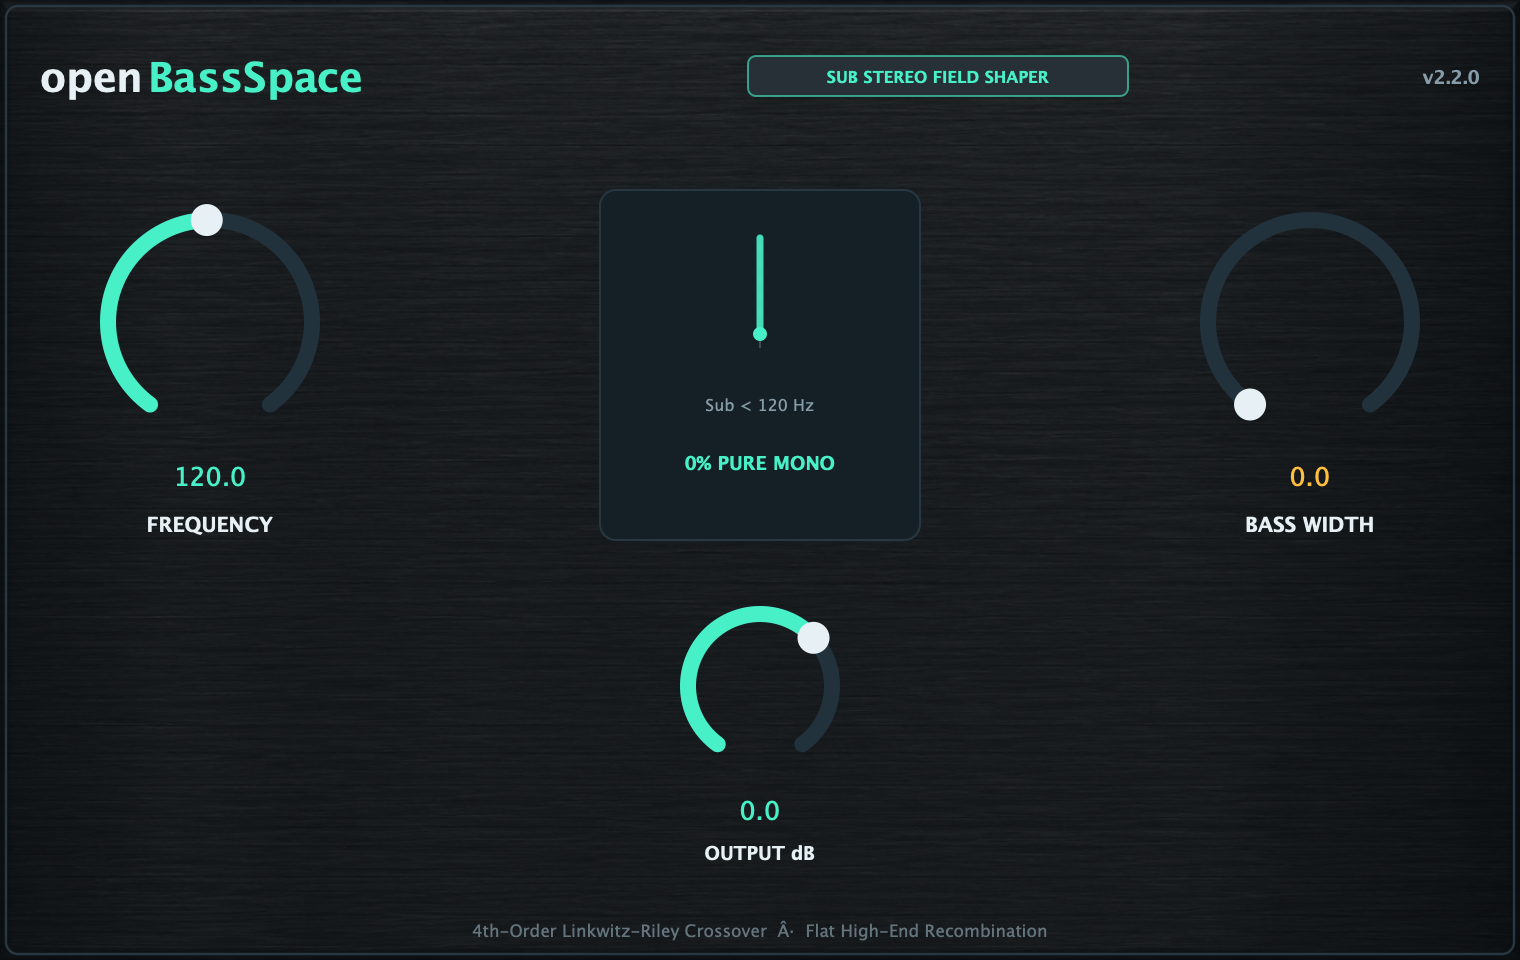
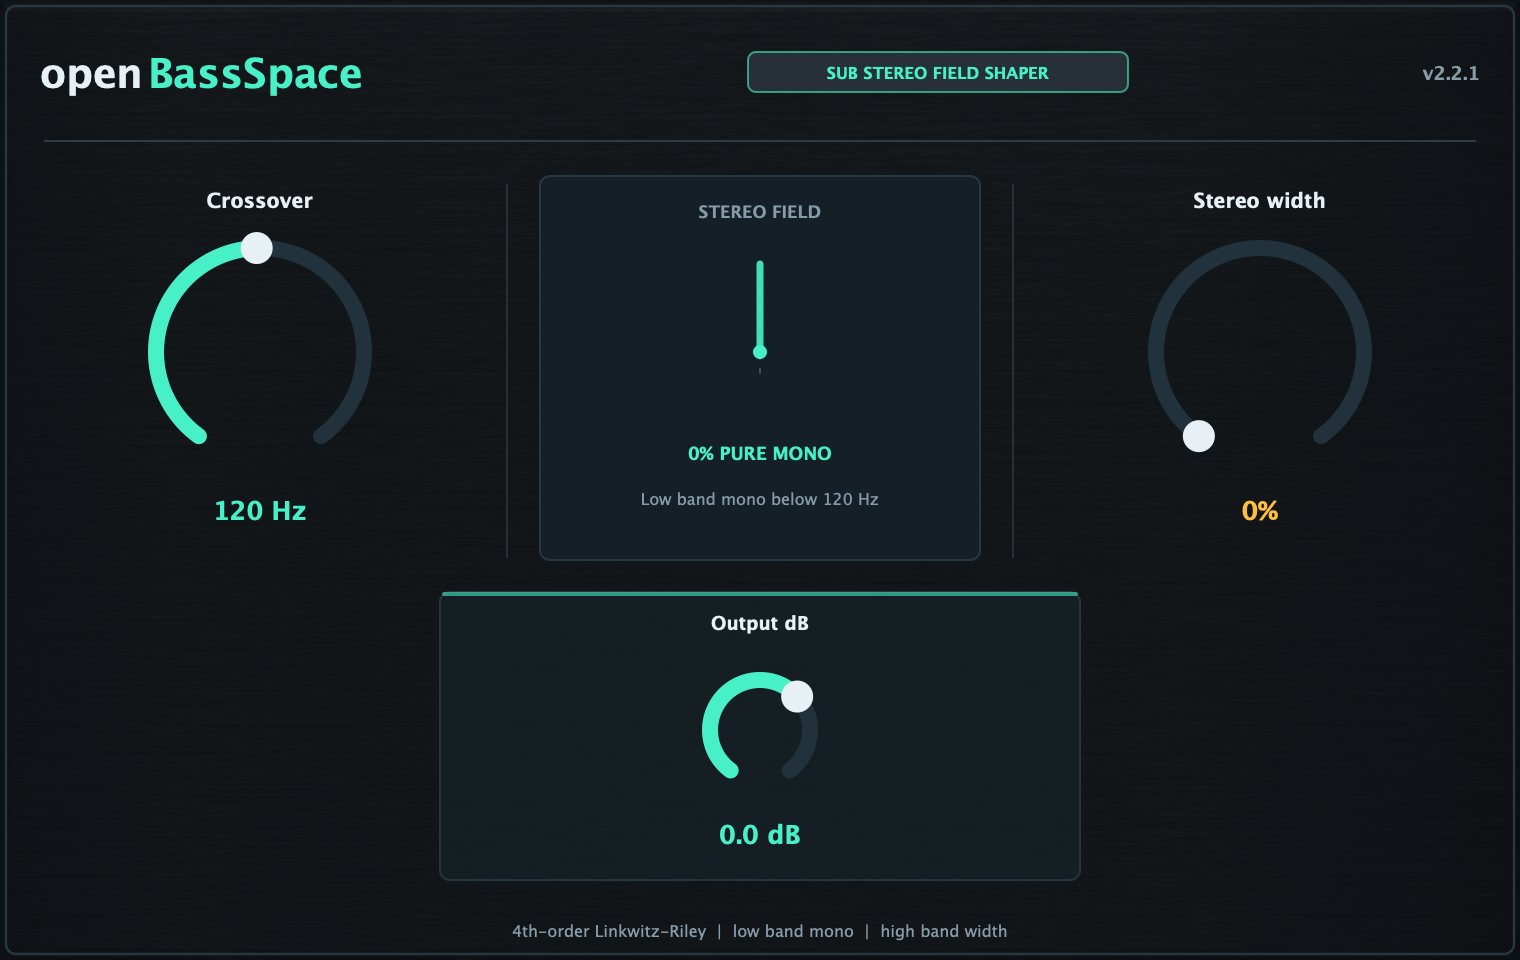
feat: polish openBassSpace interface

diff --git a/Source/Plugin/PluginEditor.cpp b/Source/Plugin/PluginEditor.cpp
@@ -13,6 +13,7 @@ const juce::Colour kAccentMint{ 0xff48f0c8 };
 const juce::Colour kAccentGold{ 0xffffbe3b };
 const juce::Colour kTextWhite{ 0xffe6f0f5 };
 const juce::Colour kTextDim{ 0xff869ca8 };
+const juce::Colour kPanelRule{ 0xff31434d };
 
 void drawGlow(juce::Graphics& g, juce::Rectangle<float> bounds, juce::Colour colour) {
     const juce::Graphics::ScopedSaveState saved(g);
@@ -35,39 +36,49 @@ BassSpaceEditor::BassSpaceEditor(BassSpaceProcessor& p)
 
     // Frequency knob
     freqSlider_.setSliderStyle(juce::Slider::RotaryHorizontalVerticalDrag);
-    freqSlider_.setTextBoxStyle(juce::Slider::TextBoxBelow, false, 80, 22);
+    freqSlider_.setTextBoxStyle(juce::Slider::NoTextBox, false, 0, 0);
     freqSlider_.setColour(juce::Slider::rotarySliderFillColourId, kAccentMint);
     freqSlider_.setColour(juce::Slider::rotarySliderOutlineColourId, juce::Colour(0xff22323c));
     freqSlider_.setColour(juce::Slider::thumbColourId, kTextWhite);
-    freqSlider_.setColour(juce::Slider::textBoxTextColourId, kAccentMint);
-    freqSlider_.setColour(juce::Slider::textBoxOutlineColourId, juce::Colours::transparentBlack);
     freqSlider_.setDoubleClickReturnValue(true, 120.0);
-    freqSlider_.textFromValueFunction = [](double v) { return juce::String(juce::roundToInt(v)) + " Hz"; };
+    freqSlider_.setTitle("Crossover frequency");
+    freqSlider_.setDescription("The low band stays mono below this frequency.");
+    freqSlider_.setTooltip("Set the crossover frequency. The low band stays mono below this point.");
     addAndMakeVisible(freqSlider_);
 
-    freqLabel_.setText("FREQUENCY", juce::dontSendNotification);
+    freqLabel_.setText("Crossover", juce::dontSendNotification);
     freqLabel_.setJustificationType(juce::Justification::centred);
     freqLabel_.setFont(juce::FontOptions(12.0f, juce::Font::bold));
     freqLabel_.setColour(juce::Label::textColourId, kTextWhite);
     addAndMakeVisible(freqLabel_);
 
+    freqValueLabel_.setJustificationType(juce::Justification::centred);
+    freqValueLabel_.setFont(juce::FontOptions(15.0f, juce::Font::bold));
+    freqValueLabel_.setColour(juce::Label::textColourId, kAccentMint);
+    addAndMakeVisible(freqValueLabel_);
+
     // Width knob
     widthSlider_.setSliderStyle(juce::Slider::RotaryHorizontalVerticalDrag);
-    widthSlider_.setTextBoxStyle(juce::Slider::TextBoxBelow, false, 80, 22);
+    widthSlider_.setTextBoxStyle(juce::Slider::NoTextBox, false, 0, 0);
     widthSlider_.setColour(juce::Slider::rotarySliderFillColourId, kAccentGold);
     widthSlider_.setColour(juce::Slider::rotarySliderOutlineColourId, juce::Colour(0xff22323c));
     widthSlider_.setColour(juce::Slider::thumbColourId, kTextWhite);
-    widthSlider_.setColour(juce::Slider::textBoxTextColourId, kAccentGold);
-    widthSlider_.setColour(juce::Slider::textBoxOutlineColourId, juce::Colours::transparentBlack);
     widthSlider_.setDoubleClickReturnValue(true, 100.0);
-    widthSlider_.textFromValueFunction = [](double v) { return juce::String(juce::roundToInt(v)) + " %"; };
+    widthSlider_.setTitle("Stereo width");
+    widthSlider_.setDescription("Sets the stereo width above the crossover frequency.");
+    widthSlider_.setTooltip("Set the stereo width above the crossover frequency.");
     addAndMakeVisible(widthSlider_);
 
-    widthLabel_.setText("BASS WIDTH", juce::dontSendNotification);
+    widthLabel_.setText("Stereo width", juce::dontSendNotification);
     widthLabel_.setJustificationType(juce::Justification::centred);
     widthLabel_.setFont(juce::FontOptions(12.0f, juce::Font::bold));
     widthLabel_.setColour(juce::Label::textColourId, kTextWhite);
     addAndMakeVisible(widthLabel_);
+
+    widthValueLabel_.setJustificationType(juce::Justification::centred);
+    widthValueLabel_.setFont(juce::FontOptions(15.0f, juce::Font::bold));
+    widthValueLabel_.setColour(juce::Label::textColourId, kAccentGold);
+    addAndMakeVisible(widthValueLabel_);
 
     freqAttachment_ = std::make_unique<juce::AudioProcessorValueTreeState::SliderAttachment>(
         processor_.parameters, bass_space::params::kFrequency, freqSlider_);
@@ -75,26 +86,32 @@ BassSpaceEditor::BassSpaceEditor(BassSpaceProcessor& p)
         processor_.parameters, bass_space::params::kWidth, widthSlider_);
 
     outputDbSlider_.setSliderStyle(juce::Slider::RotaryHorizontalVerticalDrag);
-    outputDbSlider_.setTextBoxStyle(juce::Slider::TextBoxBelow, false, 80, 22);
+    outputDbSlider_.setTextBoxStyle(juce::Slider::NoTextBox, false, 0, 0);
     outputDbSlider_.setColour(juce::Slider::rotarySliderFillColourId, kAccentMint);
     outputDbSlider_.setColour(juce::Slider::rotarySliderOutlineColourId, juce::Colour(0xff22323c));
     outputDbSlider_.setColour(juce::Slider::thumbColourId, kTextWhite);
-    outputDbSlider_.setColour(juce::Slider::textBoxTextColourId, kAccentMint);
-    outputDbSlider_.setColour(juce::Slider::textBoxOutlineColourId, juce::Colours::transparentBlack);
     outputDbSlider_.setDoubleClickReturnValue(true, 0.0);
-    outputDbSlider_.textFromValueFunction = [](double v) { return juce::String(v, 1) + " dB"; };
+    outputDbSlider_.setTitle("Output level");
+    outputDbSlider_.setDescription("Sets the plug-in output level in decibels.");
+    outputDbSlider_.setTooltip("Set the plug-in output level in decibels.");
     addAndMakeVisible(outputDbSlider_);
 
     outputDbAttachment_ = std::make_unique<juce::AudioProcessorValueTreeState::SliderAttachment>(
         processor_.parameters, bass_space::params::kOutputDb, outputDbSlider_);
 
-    outputDbLabel_.setText("OUTPUT dB", juce::dontSendNotification);
+    outputDbLabel_.setText("Output dB", juce::dontSendNotification);
     outputDbLabel_.setJustificationType(juce::Justification::centred);
     outputDbLabel_.setFont(juce::FontOptions(11.0f, juce::Font::bold));
     outputDbLabel_.setColour(juce::Label::textColourId, kTextWhite);
     addAndMakeVisible(outputDbLabel_);
 
+    outputDbValueLabel_.setJustificationType(juce::Justification::centred);
+    outputDbValueLabel_.setFont(juce::FontOptions(15.0f, juce::Font::bold));
+    outputDbValueLabel_.setColour(juce::Label::textColourId, kAccentMint);
+    addAndMakeVisible(outputDbValueLabel_);
+
     setSize(760, 480);
+    updateValueLabels();
     startTimerHz(30);
 }
 
@@ -103,24 +120,34 @@ BassSpaceEditor::~BassSpaceEditor() {
 }
 
 void BassSpaceEditor::timerCallback() {
+    updateValueLabels();
     repaint();
+}
+
+void BassSpaceEditor::updateValueLabels() {
+    freqValueLabel_.setText(juce::String(juce::roundToInt(freqSlider_.getValue())) + " Hz", juce::dontSendNotification);
+    widthValueLabel_.setText(juce::String(juce::roundToInt(widthSlider_.getValue())) + "%", juce::dontSendNotification);
+    outputDbValueLabel_.setText(juce::String(outputDbSlider_.getValue(), 1) + " dB", juce::dontSendNotification);
 }
 
 void BassSpaceEditor::paint(juce::Graphics& g) {
     g.fillAll(kBackground);
 
     if (!faceplate_.isNull()) {
-        g.setOpacity(0.45f);
+        g.setOpacity(0.24f);
         g.drawImage(faceplate_, getLocalBounds().toFloat(), juce::RectanglePlacement::stretchToFit);
         g.setOpacity(1.0f);
     }
 
+    g.setColour(kBackground.withAlpha(0.28f));
+    g.fillRect(getLocalBounds().reduced(5));
+
     // Outer border
     g.setColour(kPanelEdge);
-    g.drawRoundedRectangle(getLocalBounds().toFloat().reduced(3.0f), 6.0f, 1.2f);
+    g.drawRoundedRectangle(getLocalBounds().toFloat().reduced(3.0f), 5.0f, 1.2f);
 
     // Header
-    const auto header = getLocalBounds().reduced(20, 16).removeFromTop(44);
+    const auto header = getLocalBounds().reduced(20, 14).removeFromTop(44);
     g.setFont(juce::FontOptions(24.0f, juce::Font::bold));
     g.setColour(kTextWhite);
     g.drawText("open", header, juce::Justification::centredLeft);
@@ -144,28 +171,39 @@ void BassSpaceEditor::paint(juce::Graphics& g) {
     g.setColour(kTextDim);
     g.drawText("v" JucePlugin_VersionString, header, juce::Justification::centredRight);
 
+    g.setColour(kPanelRule.withAlpha(0.85f));
+    g.drawHorizontalLine(70.0f, 22.0f, static_cast<float>(getWidth() - 22));
+    g.setColour(kPanelRule.withAlpha(0.6f));
+    g.drawVerticalLine(253.0f, 92.0f, 279.0f);
+    g.drawVerticalLine(506.0f, 92.0f, 279.0f);
+
     // Center Display Monitor
-    auto centerArea = juce::Rectangle<float>(300, 95, 160, 175);
-    drawGlow(g, centerArea, (processor_.currentWidth() > 105.0f ? kAccentGold : kAccentMint).withAlpha(0.08f));
+    auto centerArea = juce::Rectangle<float>(270, 88, 220, 192);
+    const auto fieldAccent = (processor_.currentWidth() > 105.0f ? kAccentGold : kAccentMint);
+    drawGlow(g, centerArea, fieldAccent.withAlpha(0.07f));
     g.setColour(kPanel);
-    g.fillRoundedRectangle(centerArea, 8.0f);
+    g.fillRoundedRectangle(centerArea, 5.0f);
     g.setColour(kPanelEdge);
-    g.drawRoundedRectangle(centerArea, 8.0f, 1.0f);
+    g.drawRoundedRectangle(centerArea, 5.0f, 1.0f);
+
+    g.setFont(juce::FontOptions(10.0f, juce::Font::bold));
+    g.setColour(kTextDim);
+    g.drawText("STEREO FIELD", centerArea.withTrimmedTop(10.0f).withHeight(15.0f), juce::Justification::centred);
 
     // Stereo spread arc visualization
-    const auto arcCentre = juce::Point<float>(centerArea.getCentreX(), centerArea.getY() + 72.0f);
+    const auto arcCentre = juce::Point<float>(centerArea.getCentreX(), centerArea.getY() + 88.0f);
     const float currentW = processor_.currentWidth();
     const float spreadAngle = (currentW / 200.0f) * (std::numbers::pi_v<float> * 0.42f);
 
     // Center mono beam line
     g.setColour(kTextDim.withAlpha(0.35f));
     const float dashes[] = { 4.0f, 4.0f };
-    g.drawDashedLine(juce::Line<float>(arcCentre.x, arcCentre.y - 45.0f, arcCentre.x, arcCentre.y + 10.0f),
+    g.drawDashedLine(juce::Line<float>(arcCentre.x, arcCentre.y - 40.0f, arcCentre.x, arcCentre.y + 11.0f),
                      dashes, 2, 1.0f);
 
     // Stereo vector wings
     juce::Path wings;
-    const float wingLength = 48.0f;
+    const float wingLength = 44.0f;
     wings.startNewSubPath(arcCentre);
     wings.lineTo(arcCentre.x - std::sin(spreadAngle) * wingLength, arcCentre.y - std::cos(spreadAngle) * wingLength);
     wings.startNewSubPath(arcCentre);
@@ -195,32 +233,46 @@ void BassSpaceEditor::paint(juce::Graphics& g) {
         modeCol = kAccentGold;
     }
 
-    g.setFont(juce::FontOptions(11.0f, juce::Font::bold));
+    g.setFont(juce::FontOptions(10.5f, juce::Font::bold));
     g.setColour(modeCol);
-    g.drawText(modeText, centerArea.removeFromBottom(48).withHeight(18), juce::Justification::centred);
+    g.drawText(modeText, centerArea.withY(218.0f).withHeight(17.0f), juce::Justification::centred);
 
     g.setFont(juce::FontOptions(9.5f));
     g.setColour(kTextDim);
-    g.drawText("Sub < " + juce::String(juce::roundToInt(processor_.currentFrequency())) + " Hz",
-               centerArea.removeFromBottom(28).withHeight(16), juce::Justification::centred);
+    g.drawText("Low band mono below " + juce::String(juce::roundToInt(processor_.currentFrequency())) + " Hz",
+               centerArea.withY(241.0f).withHeight(16.0f), juce::Justification::centred);
+
+    const auto masterStrip = juce::Rectangle<float>(220.0f, 296.0f, 320.0f, 144.0f);
+    g.setColour(kPanel.withAlpha(0.78f));
+    g.fillRoundedRectangle(masterStrip, 5.0f);
+    g.setColour(kPanelEdge.withAlpha(0.9f));
+    g.drawRoundedRectangle(masterStrip, 5.0f, 1.0f);
+    g.setColour(kAccentMint.withAlpha(0.58f));
+    g.fillRoundedRectangle(masterStrip.withTrimmedTop(0.0f).withHeight(2.0f).reduced(1.0f, 0.0f), 1.0f);
 
     // Footer
     const auto footer = getLocalBounds().removeFromBottom(30);
-    g.setFont(juce::FontOptions(10.0f));
-    g.setColour(kTextDim.withAlpha(0.7f));
-    g.drawText("4th-Order Linkwitz-Riley Crossover  ·  Flat High-End Recombination", footer, juce::Justification::centred);
+    g.setFont(juce::FontOptions(9.5f));
+    g.setColour(kTextDim);
+    g.drawText("4th-order Linkwitz-Riley  |  low band mono  |  high band width", footer, juce::Justification::centred);
 }
 
 void BassSpaceEditor::resized() {
-    const int knobSize = 130;
-    const int knobY = 95;
+    updateValueLabels();
+    const int knobSize = 132;
+    const int knobY = 110;
+    const int sideColumnWidth = 188;
 
-    freqSlider_.setBounds(40, knobY, knobSize, knobSize + 24);
-    freqLabel_.setBounds(40, knobY + knobSize + 28, knobSize, 18);
+    freqLabel_.setBounds(36, 91, sideColumnWidth, 18);
+    freqSlider_.setBounds(64, knobY, knobSize, knobSize);
+    freqValueLabel_.setBounds(36, knobY + knobSize + 2, sideColumnWidth, 22);
 
-    widthSlider_.setBounds(getWidth() - 40 - knobSize, knobY, knobSize, knobSize + 24);
-    widthLabel_.setBounds(getWidth() - 40 - knobSize, knobY + knobSize + 28, knobSize, 18);
+    const int widthX = getWidth() - 36 - sideColumnWidth;
+    widthLabel_.setBounds(widthX, 91, sideColumnWidth, 18);
+    widthSlider_.setBounds(widthX + (sideColumnWidth - knobSize) / 2, knobY, knobSize, knobSize);
+    widthValueLabel_.setBounds(widthX, knobY + knobSize + 2, sideColumnWidth, 22);
 
-    outputDbSlider_.setBounds((getWidth() - 100) / 2, 292, 100, 124);
-    outputDbLabel_.setBounds((getWidth() - 140) / 2, 416, 140, 20);
+    outputDbLabel_.setBounds((getWidth() - 180) / 2, 302, 180, 18);
+    outputDbSlider_.setBounds((getWidth() - 112) / 2, 326, 112, 78);
+    outputDbValueLabel_.setBounds((getWidth() - 180) / 2, 406, 180, 22);
 }

diff --git a/Tests/PluginHostChecks.cpp b/Tests/PluginHostChecks.cpp
@@ -1,5 +1,6 @@
 #include "PluginProcessor.h"
 #include <juce_audio_utils/juce_audio_utils.h>
+#include <algorithm>
 #include <cmath>
 #include <iostream>
 
@@ -20,6 +21,21 @@ static void save(juce::Component& c, const juce::String& path) {
     require(juce::PNGImageFormat().writeImageToStream(
                 c.createComponentSnapshot(c.getLocalBounds(), true, 2.0f), out),
             "capture failed");
+}
+
+static bool hasVisibleLabel(juce::Component& component, const juce::String& text) {
+    return std::any_of(component.getChildren().begin(), component.getChildren().end(), [&text](auto* child) {
+        auto* label = dynamic_cast<juce::Label*>(child);
+        return label != nullptr && label->getText() == text && label->isVisible()
+            && !label->getBounds().isEmpty();
+    });
+}
+
+static bool hasSliderTitle(juce::Component& component, const juce::String& title) {
+    return std::any_of(component.getChildren().begin(), component.getChildren().end(), [&title](auto* child) {
+        auto* slider = dynamic_cast<juce::Slider*>(child);
+        return slider != nullptr && slider->getTitle() == title;
+    });
 }
 
 int main(int argc, char** argv) {
@@ -101,6 +117,15 @@ int main(int argc, char** argv) {
 
     require(editor != nullptr, "Editor creation failed");
     require(editor->getWidth() == 760 && editor->getHeight() == 480, "editor size match");
+    require(hasVisibleLabel(*editor, "Crossover"), "Crossover section label is visible");
+    require(hasVisibleLabel(*editor, "Stereo width"), "Stereo width section label is visible");
+    require(hasVisibleLabel(*editor, "Output dB"), "Output dB section label is visible");
+    require(hasVisibleLabel(*editor, "120 Hz"), "Crossover value includes frequency units");
+    require(hasVisibleLabel(*editor, "0%"), "Stereo width value includes percent units");
+    require(hasVisibleLabel(*editor, "0.0 dB"), "Output value includes decibel units");
+    require(hasSliderTitle(*editor, "Crossover frequency"), "Crossover control has an accessibility title");
+    require(hasSliderTitle(*editor, "Stereo width"), "Width control has an accessibility title");
+    require(hasSliderTitle(*editor, "Output level"), "Output control has an accessibility title");
 
     const juce::String outPath = argc > 1 ? juce::String(argv[1]) : "assets/native-ui.png";
     save(*editor, outPath);
@@ -148,6 +173,7 @@ int main(int argc, char** argv) {
     juce::AudioBuffer<float> emptyAudio(0, 0);
     p.processBlock(emptyAudio, midi);
 
-    std::cout << "openBassSpace v2.2.0 checks passed and screenshot saved to " << outPath << "\n";
+    std::cout << "openBassSpace v" << JucePlugin_VersionString
+              << " checks passed and screenshot saved to " << outPath << "\n";
     return 0;
 }

diff --git a/Source/Plugin/PluginEditor.h b/Source/Plugin/PluginEditor.h
@@ -13,6 +13,7 @@ public:
 
 private:
     void timerCallback() override;
+    void updateValueLabels();
 
     BassSpaceProcessor& processor_;
     juce::Slider freqSlider_;
@@ -23,6 +24,7 @@ private:
     juce::Label freqValueLabel_;
     juce::Label widthValueLabel_;
     juce::Label outputDbLabel_;
+    juce::Label outputDbValueLabel_;
 
     std::unique_ptr<juce::AudioProcessorValueTreeState::SliderAttachment> freqAttachment_;
     std::unique_ptr<juce::AudioProcessorValueTreeState::SliderAttachment> widthAttachment_;

diff --git a/README.md b/README.md
@@ -10,7 +10,7 @@ Low-frequency stereo field shaper and mono-maker plugin.
 
 openBassSpace controls the stereo width of low frequencies:
 - Frequency: 20 Hz to 500 Hz (4th-order Linkwitz-Riley crossover)
-- Bass Width: 0% to 200%
+- Stereo width: 0% to 200%
   - 0%: Collapses low frequencies to mono for club playback and mono compatibility
   - 100%: Flat pass-through
   - 200%: Stereo width expansion for spatial bass effects
